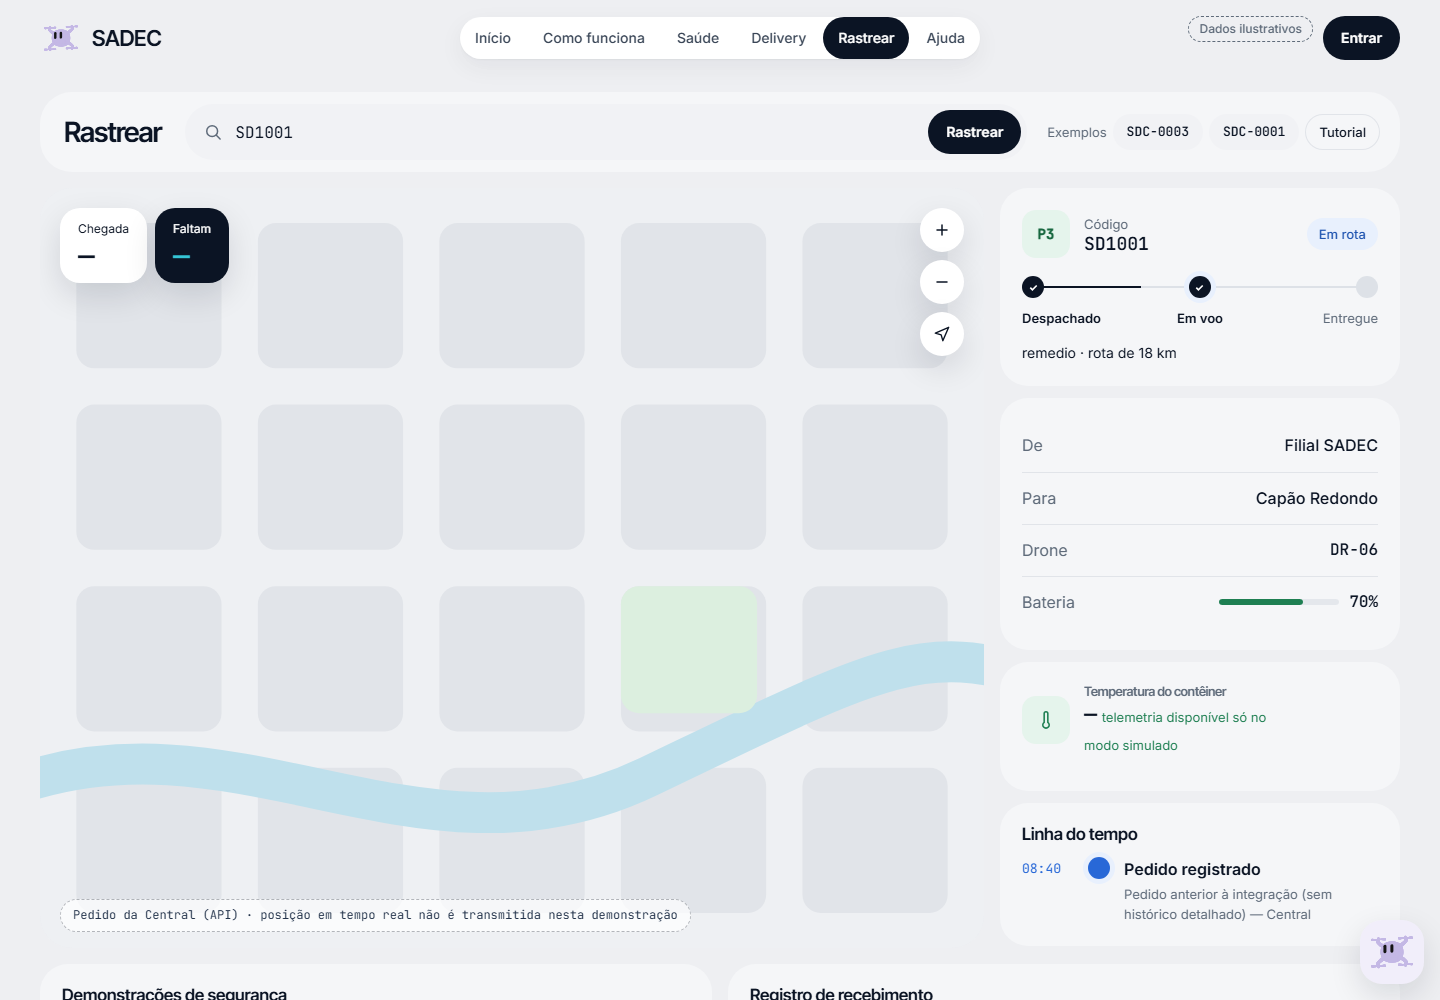
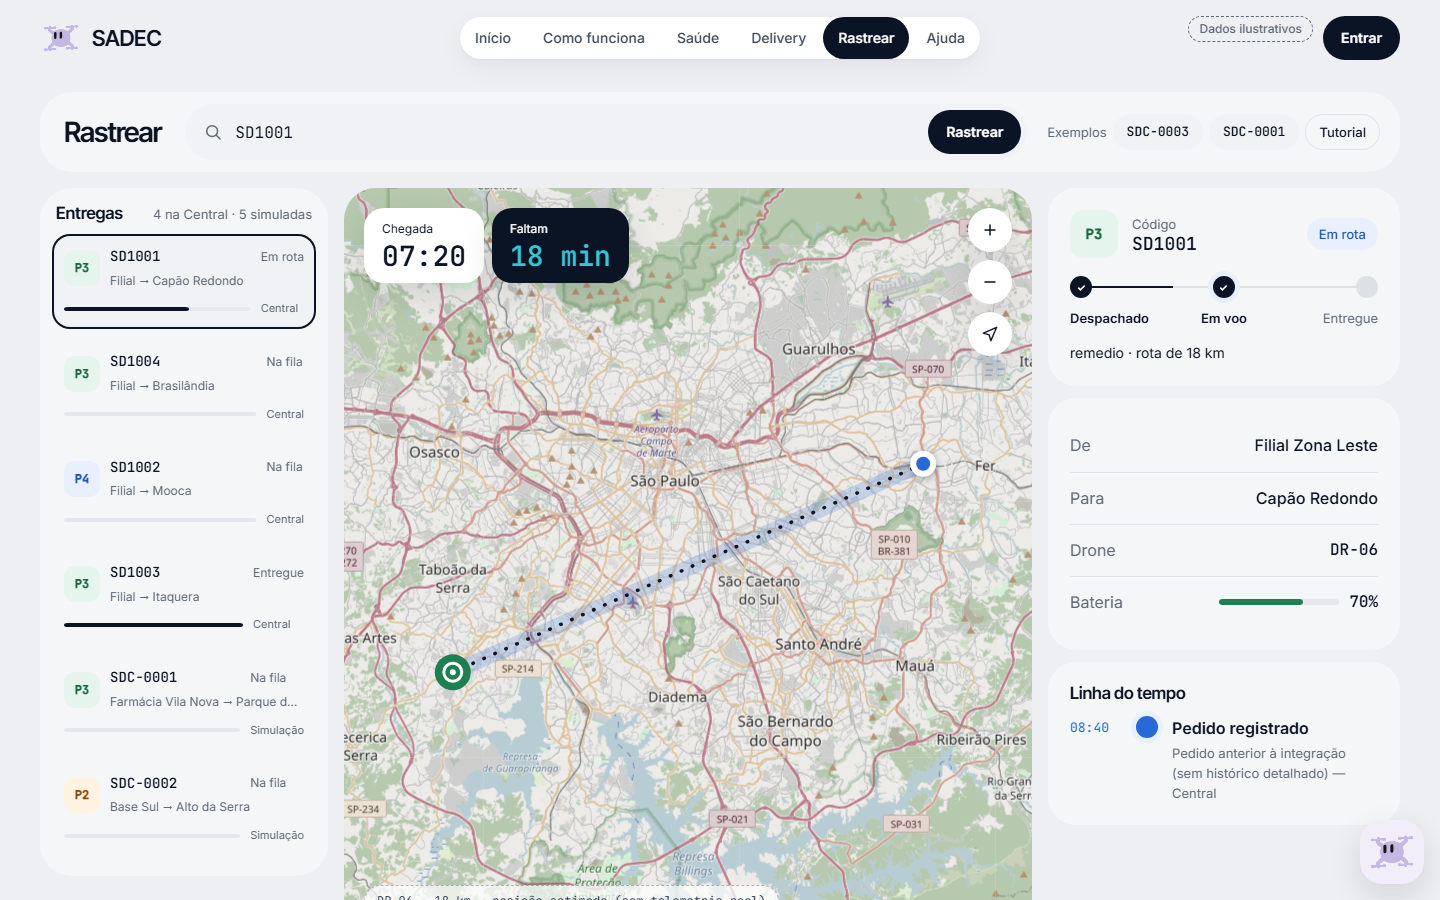
docs: contas, códigos de órgão, endpoints novos, migração 002 e captura do novo rastreamento

diff --git a/README.md b/README.md
@@ -122,7 +122,8 @@ Site (HTML/CSS/JS puro) ──fetch──▶ Node-RED (API + chatbot) ──▶ 
 - Só a **CentralOperacao Java** escolhe o drone (não há segundo motor de despacho; a função `escolher_drone()` do Python continua só no programa acadêmico).
 - O pedido fica `atribuida` com o drone reservado e **só entra em voo na decolagem** (`POST /api/pedidos/:codigo/decolar`).
 - Reserva do drone com `UPDATE` condicional dentro de transação: o mesmo drone não é despachado duas vezes.
-- Autorização: **P1** só hospital ou Central de Transplantes; **P2** só Defesa Civil ou município. O **chatbot público não autoriza P1 nem P2**.
+- Autorização: **P1** só hospital ou Central de Transplantes, com **conta de unidade de saúde** e um **código de autorização de órgão** emitido pela Central para aquele transporte (uso único, válido por 6 horas, vinculado ao hospital). **P2** só com conta de operador da Central (em nome da Defesa Civil ou do município). O **chatbot público não autoriza P1 nem P2**.
+- Decolar, concluir, processar a fila e liberar drones exigem conta de **operador**.
 - Drone em pouso de emergência, manutenção ou aguardando liberação **nunca** é despachado; não há volta automática à frota.
 - Recebimento grava responsável, destinatário, estado da carga e horário, e entra no histórico.
 
@@ -150,15 +151,28 @@ npm start
 
 Nenhuma chave fica no código, no fluxo ou no banco. A API escuta só em `127.0.0.1` e aceita CORS apenas de `http://localhost:5173`.
 
+### Contas (uma conta para o portal, o SADEC Saúde e o SADEC Delivery)
+- Cadastro e login em `entrar.html`, gravados no SQLite pela API. Senha guardada só como hash **scrypt** com sal; o login gera um token aleatório e o banco guarda apenas o hash SHA-256 dele. "Manter conectado" vale 30 dias (sem ele, 12 horas e só até fechar o navegador).
+- Perfis: **cliente** (Delivery e remédios), **unidade de saúde** (escolhe o hospital da rede no cadastro) e **operador** (criado só pela Central, não pelo cadastro público).
+- O cabeçalho do portal, o Saúde e o Delivery mostram a conta conectada. No Delivery, com a API ligada e conta de cliente, o pedido também é gravado na Central (P4) e pode ser seguido no mapa real.
+- O código de 6 dígitos, o Face ID e "Esqueci a senha" continuam **simulados** (nenhum SMS ou e-mail é enviado).
+- Contas de demonstração (fictícias, criadas pela migração 002), todas com a senha `sadec2026`: `operador@sadec.demo`, `hospital@sadec.demo` (Hospital das Clínicas) e `cliente@sadec.demo`.
+
+Transporte de órgão: o operador entra na Central, emite o código para o hospital (painel "Central integrada") e o informa ao hospital; a equipe entra com a conta da unidade de saúde e digita o código no pedido de órgão do SADEC Saúde. O código é consumido na mesma transação que grava o pedido.
+
 ### Endpoints
 | Método | Rota | O que faz |
 |---|---|---|
+| POST | `/api/contas` | Cria conta (cliente ou unidade de saúde) |
+| POST | `/api/sessoes` · `/api/sessoes/sair` | Login (devolve o token) e saída |
+| GET | `/api/conta` · `/api/meus-pedidos` | Conta da sessão e pedidos dela (`Authorization: Bearer <token>`) |
+| GET/POST | `/api/codigos-orgao` | Lista e emite códigos de autorização de órgão (operador) |
 | POST | `/api/pedidos` | Cria pedido: valida, Python calcula, Java decide, SQLite grava, evento registrado |
 | GET | `/api/pedidos` · `/api/pedidos/:codigo` | Lista / consulta com histórico e recebimento |
 | POST | `/api/pedidos/:codigo/decolar` · `/concluir` | Decolagem e conclusão da entrega |
 | POST | `/api/pedidos/:codigo/recebimento` | Responsável, destinatário e estado da carga |
 | POST | `/api/fila/processar` | Ordena a fila pela Java e despacha os pendentes |
-| GET | `/api/drones` · `/api/locais` | Frota e locais da rede piloto |
+| GET | `/api/drones` · `/api/locais` | Frota; locais com latitude e longitude (181 unidades do CNES listadas no `sadec.py`, bairros e filiais) |
 | POST | `/api/drones/:codigo/recuperacao` | `concluir_resgate`, `concluir_manutencao` ou `liberar` |
 | GET/POST | `/sadec` · `/sadec/mensagem` | Webchat original e mensagens do chatbot |
 | GET | `/sadec/widget.js` · `/sadec/widget.css` | Widget incorporável (`<script src="http://localhost:1880/sadec/widget.js">`) |
@@ -172,12 +186,13 @@ POST /api/pedidos
 ```
 
 ### Banco de dados
-`ChatBot/migracoes/migrar.py up|down` aplica ou desfaz a migração 001 (faz backup antes, roda em transação): novos estados de drone e de pedido, origem, distância, peso e solicitante no pedido, e as tabelas `tbl_evento` e `tbl_recebimento`. Para voltar aos dados demonstrativos depois de testar: pare a API e rode `git checkout -- ChatBot/SADEC_Chatbot.db`.
+`ChatBot/migracoes/migrar.py up|down` aplica ou desfaz a migração 001 (faz backup antes, roda em transação): novos estados de drone e de pedido, origem, distância, peso e solicitante no pedido, e as tabelas `tbl_evento` e `tbl_recebimento`.
+`ChatBot/migracoes/migrar_002.py up|down` aplica ou desfaz a migração 002: latitude, longitude e endereço dos locais; todas as unidades do CNES do `sadec.py` (distância até a filial mais próxima pelo `calcular_distancia()` do Python); coordenadas das filiais; e as tabelas `tbl_usuario`, `tbl_sessao` e `tbl_codigo_orgao`, com o dono de cada pedido. Para voltar aos dados demonstrativos depois de testar: pare a API e rode `git checkout -- ChatBot/SADEC_Chatbot.db`.
 
 ### Testes
 | Comando | O que cobre |
 |---|---|
-| `npm test` | 42 testes do site + 8 testes de integração (pulados se Python/Java não estiverem configurados) |
+| `npm test` | 44 testes do site + 12 testes de integração: contas, sessões, códigos de órgão, P1/P2, rotas com coordenadas (pulados se Python/Java não estiverem configurados) |
 | `python Python/test_sadec_integracao.py` | 13 testes: distância, bateria, reserva de 30%, limite exato, entrada inválida, CLI |
 | `java -cp Java/SADEC/out br.com.fiap.sadec.integracao.IntegracaoTeste` | 19 testes: fila P1–P4, empate, preempção, comercial em voo, bateria, pane, resgate, manutenção, liberação |
 
@@ -191,9 +206,8 @@ POST /api/pedidos
 | ![Início](docs/capturas/inicio.png) | ![Chatbot](docs/capturas/chatbot.png) | ![Saúde no celular](docs/capturas/saude-celular.png) |
 
 ### Limitações e o que é simulado
-- Frota, rotas, mapas, telemetria (bateria em voo, temperatura, vibração) e horários do mapa são **simulados**. Pedidos da API não transmitem posição em tempo real: o mapa e a telemetria aparecem só no modo simulado.
-- Hospitais, UBS, lojas, drones e pedidos são **fictícios**. Não há parceria com hospitais, órgãos públicos ou plataformas de delivery.
-- A escolha do perfil no SADEC Saúde e o login de `entrar.html` são **demonstrações**: não há autenticação real. A autorização de P1/P2 é aplicada pela API com base no tipo de solicitante informado.
-- O Delivery continua no modo simulado (não grava pedidos na API).
+- No rastreamento de um pedido da Central (código `SD`), o mapa usa ruas reais do **OpenStreetMap** (precisa de internet; atribuição "© OpenStreetMap contributors" no mapa) e as coordenadas gravadas no banco. Não há drone real: a posição em voo é **estimada** pelo horário da decolagem e pela distância, e a telemetria (temperatura, vibração) só existe no modo simulado. Os códigos `SDC-` continuam na cidade-modelo fictícia.
+- Nomes e endereços de hospitais vêm do CNES (dados públicos) e servem só para localização no mapa. Drones, pedidos, contas de demonstração e lojas são **fictícios**. Não há parceria com hospitais, órgãos públicos ou plataformas de delivery.
+- As contas são de demonstração acadêmica (banco local, sem recuperação de senha nem verificação de e-mail). O Delivery calcula preço e anima o voo na simulação; com conta conectada, o pedido também é gravado na Central.
 - O chatbot usa a **Groq** (Whisper e LLM) quando há chave configurada. **Não** implementa IBM watsonx Assistant; a conformidade com esse requisito depende de validação com o professor.
 - O programa de console Python guarda pedidos em listas na memória (não persistente) e tem a senha de emergência no próprio código, como na entrega da disciplina.
